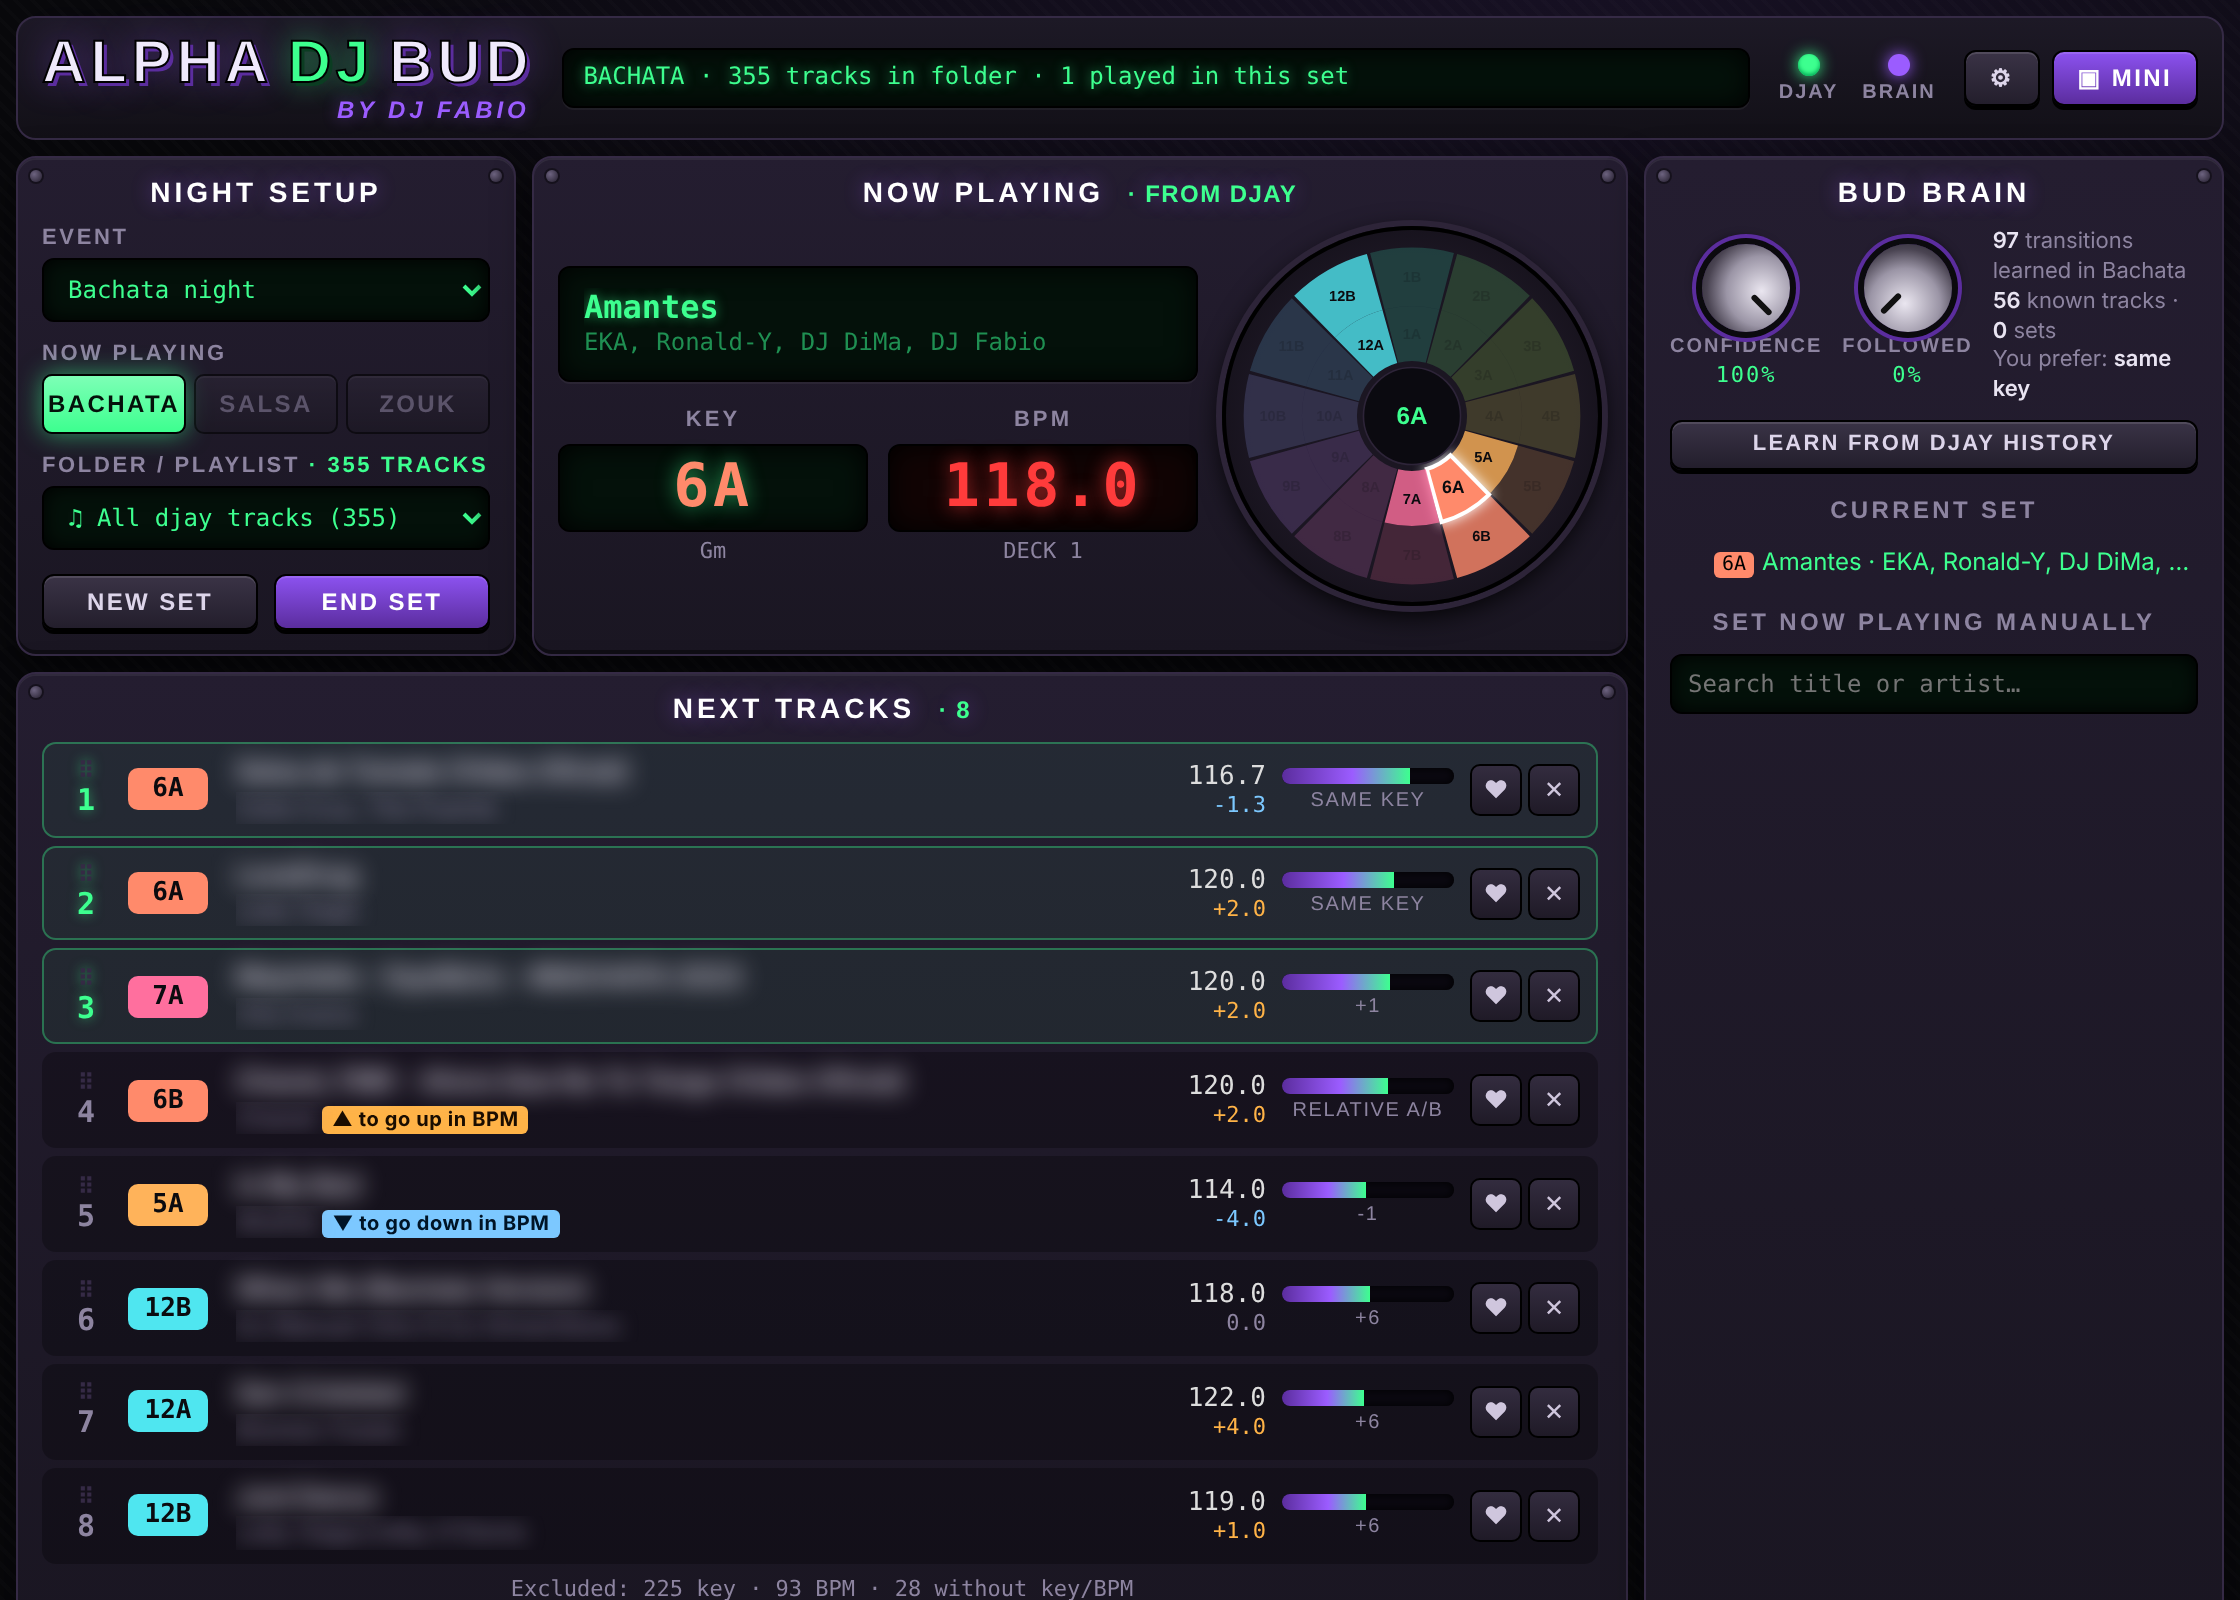
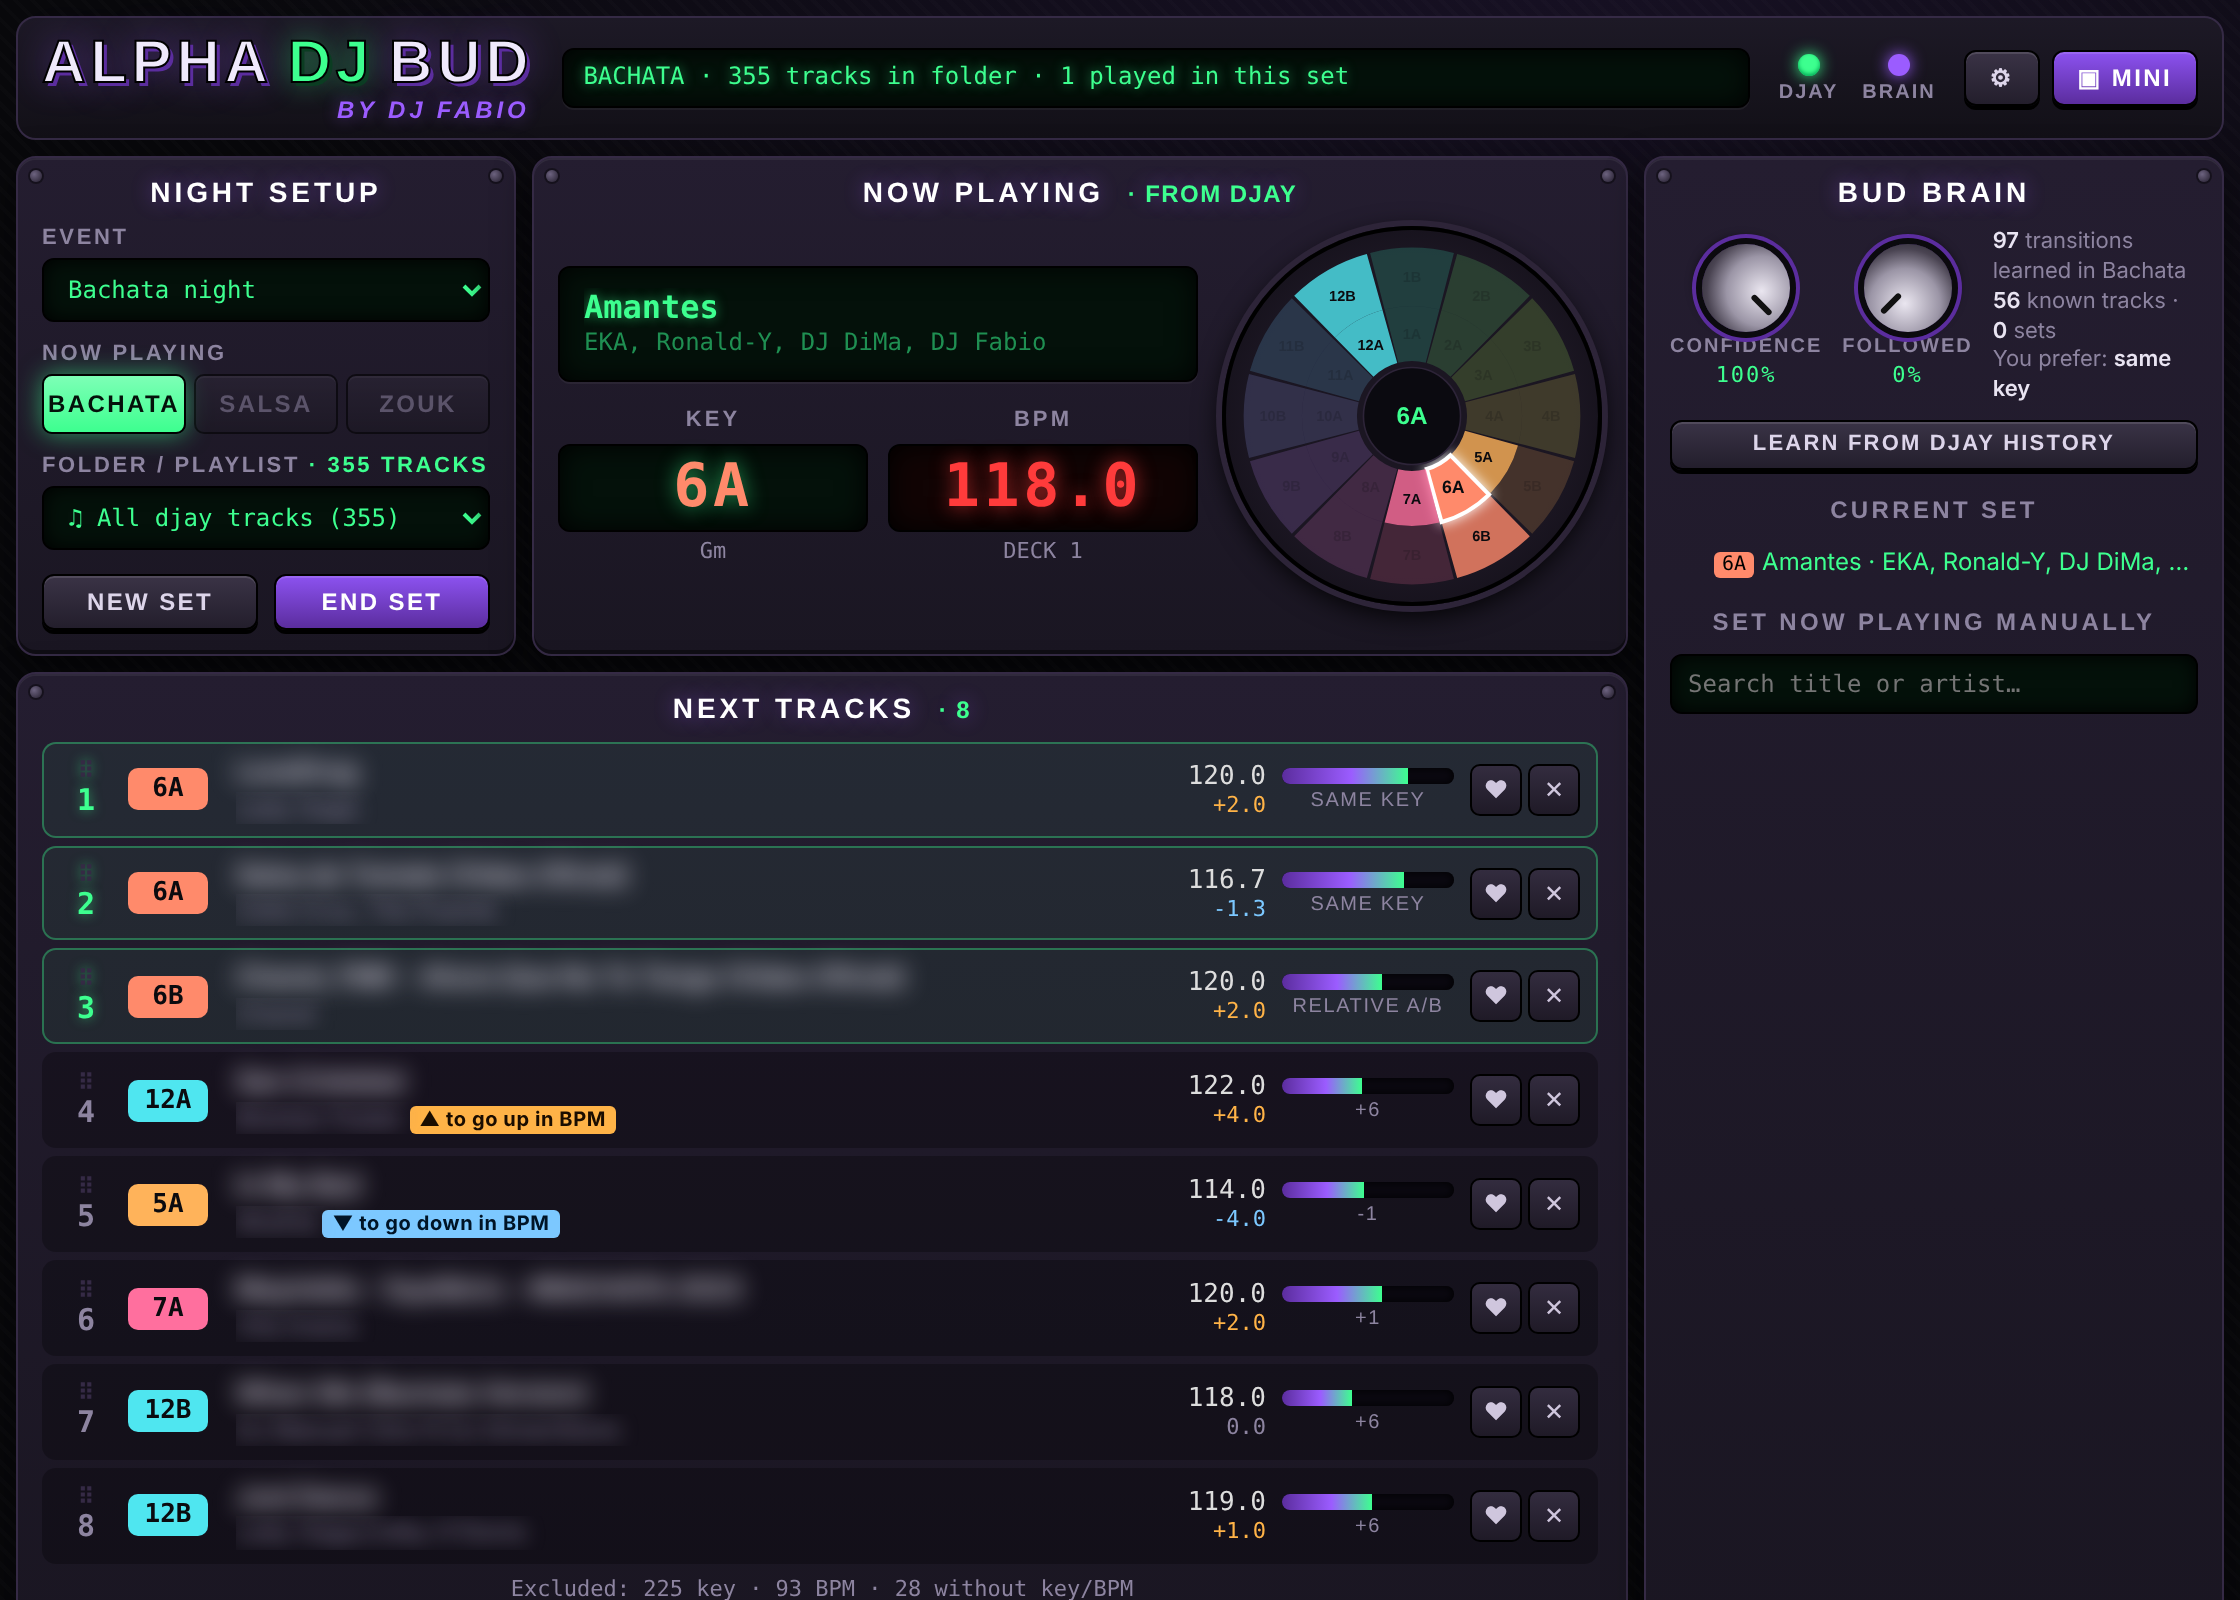
Up/down BPM picks need at least 4 BPM of difference; screenshots updated
Claude-Session: https://claude.ai/code/session_01PJxvL4yMjCS4fjHuwUZAvg

diff --git a/tests/test_core.py b/tests/test_core.py
@@ -472,13 +472,14 @@ class V19Test(unittest.TestCase):
                                          "bachata", {"variety": 0, "limit": 50})
         self.assertEqual([x["id"] for x in out[:3]], [x["id"] for x in plain[:3]])  # 3 best untouched
         self.assertFalse(any(x.get("bpmTag") for x in out[:3]))
-        tagged = [x.get("bpmTag") for x in out[3:5] if x.get("bpmTag")]
-        self.assertTrue(tagged)                       # up and/or down at positions 4-5
-        for x in out[3:5]:
-            if x.get("bpmTag") == "up":
-                self.assertGreater(x["bpmDelta"], 0)
-            if x.get("bpmTag") == "down":
-                self.assertLess(x["bpmDelta"], 0)
+        for x in out:
+            if x.get("bpmTag"):
+                self.assertIn(x, out[3:5])                     # only at positions 4-5
+                self.assertGreaterEqual(abs(x["bpmDelta"]), 4)  # at least 4 BPM
+        # a track 4 BPM away outside the top 3 gets the label
+        out2, _ = recommender.recommend(lib, lib.get("t01"), lib.tracks_in("F-BACHATA"), [], None,
+                                        "salsa", {"variety": 0})
+        self.assertTrue(all(abs(x["bpmDelta"]) >= 4 for x in out2 if x.get("bpmTag")))
 
     def test_genre_buttons_switch_the_night(self):
         st, _ = self._state()

diff --git a/alpha_dj_bud/recommender.py b/alpha_dj_bud/recommender.py
@@ -105,11 +105,14 @@ def recommend(library, current, pool_ids, played_ids, brain, genre, settings, hi
     return out[: int(opts["limit"])], stats
 
 
+MIN_BPM_STEP = 4.0  # a "go up / go down" pick moves the BPM by at least this much
+
+
 def _bpm_picks(items, tol):
     """Keep the 3 best suggestions on top, then put the best track to go UP
     (position 4) and the best to go DOWN (position 5) in BPM, chosen among
     the others, so the list also covers the whole BPM range."""
-    step = max(1.0, 0.4 * tol)
+    step = MIN_BPM_STEP - 0.05  # at least 4 BPM up or down
     top, rest = items[:3], items[3:]
     up = next((x for x in rest if x["bpmDelta"] >= step), None)
     down = next((x for x in rest if x["bpmDelta"] <= -step), None)

diff --git a/README.it.md b/README.it.md
@@ -24,7 +24,7 @@ Assistente per DJ che suona con **djay Pro su Mac** e consiglia in tempo reale i
 3. **Consiglia i prossimi brani** della cartella scelta, con queste regole:
    - **Key (Camelot Wheel)**. Esempio con 3A in riproduzione: **3A, 3B, 2A, 4A** e **9A, 9B** (salto di 6). Vale allo stesso modo per le key B.
    - **BPM**: entro una tolleranza **impostata per ogni genere** in ⚙ Impostazioni (di base Bachata ±4, Salsa ±6, Zouk ±10).
-   - **Salire / scendere di BPM**: dopo i 3 consigli migliori, alle posizioni 4 e 5 trovi il brano migliore **per salire** (etichetta arancione) e quello **per scendere** (etichetta blu) di BPM, così puoi guidare l'energia del set.
+   - **Salire / scendere di BPM**: dopo i 3 consigli migliori, alle posizioni 4 e 5 trovi il brano migliore **per salire** (etichetta arancione) e quello **per scendere** (etichetta blu) di BPM, con almeno **4 BPM** di differenza dal brano in riproduzione, così puoi guidare l'energia del set.
    - **Mai lo stesso artista di seguito.** Riconosce anche featuring e collaborazioni ("Romeo Santos & Drake", "feat. Romeo Santos"...). Puoi estendere la regola agli ultimi N brani.
    - Esclude i brani già suonati nel set.
    - **Varietà da una serata all'altra**: se suoni la stessa hit venerdì e sabato, i consigli dopo quel brano cambiano. I brani che ci hai messo dopo di recente, e quelli già proposti allora, scendono in classifica. Durante lo stesso set la lista resta stabile. Si regola in ⚙ Impostazioni → Varietà dei consigli (Spenta / Bassa / Media / Alta).

diff --git a/README.md b/README.md
@@ -26,7 +26,7 @@ The app is in **English** by default and can be switched to **Italian** or **Spa
 3. **Suggests the next tracks** from the chosen folder, with these rules:
    - **Key (Camelot Wheel)**. Example with 3A playing: **3A, 3B, 2A, 4A** and **9A, 9B** (6-step jump). The same rules apply to B keys.
    - **BPM**: within a tolerance **set per genre** in ⚙ Settings (default Bachata ±4, Salsa ±6, Zouk ±10).
-   - **Up / down in BPM**: after the 3 best suggestions, positions 4 and 5 hold the best track **to go up** (orange label) and the best **to go down** (blue label) in BPM, so you can steer the energy of the set.
+   - **Up / down in BPM**: after the 3 best suggestions, positions 4 and 5 hold the best track **to go up** (orange label) and the best **to go down** (blue label) in BPM, at least **4 BPM** away from the playing track, so you can steer the energy of the set.
    - **Never the same artist twice in a row.** Featurings and collaborations count too ("Romeo Santos & Drake", "feat. Romeo Santos"...). The rule can cover the last N tracks.
    - Tracks already played in the set are excluded.
    - **Variety from night to night**: if you play the same hit on Friday and Saturday, the suggestions after it change. Tracks you put after it recently, and the ones already suggested then, move down. Within the same set the list stays stable. Adjustable in ⚙ Settings → Suggestion variety (Off / Low / Medium / High).
